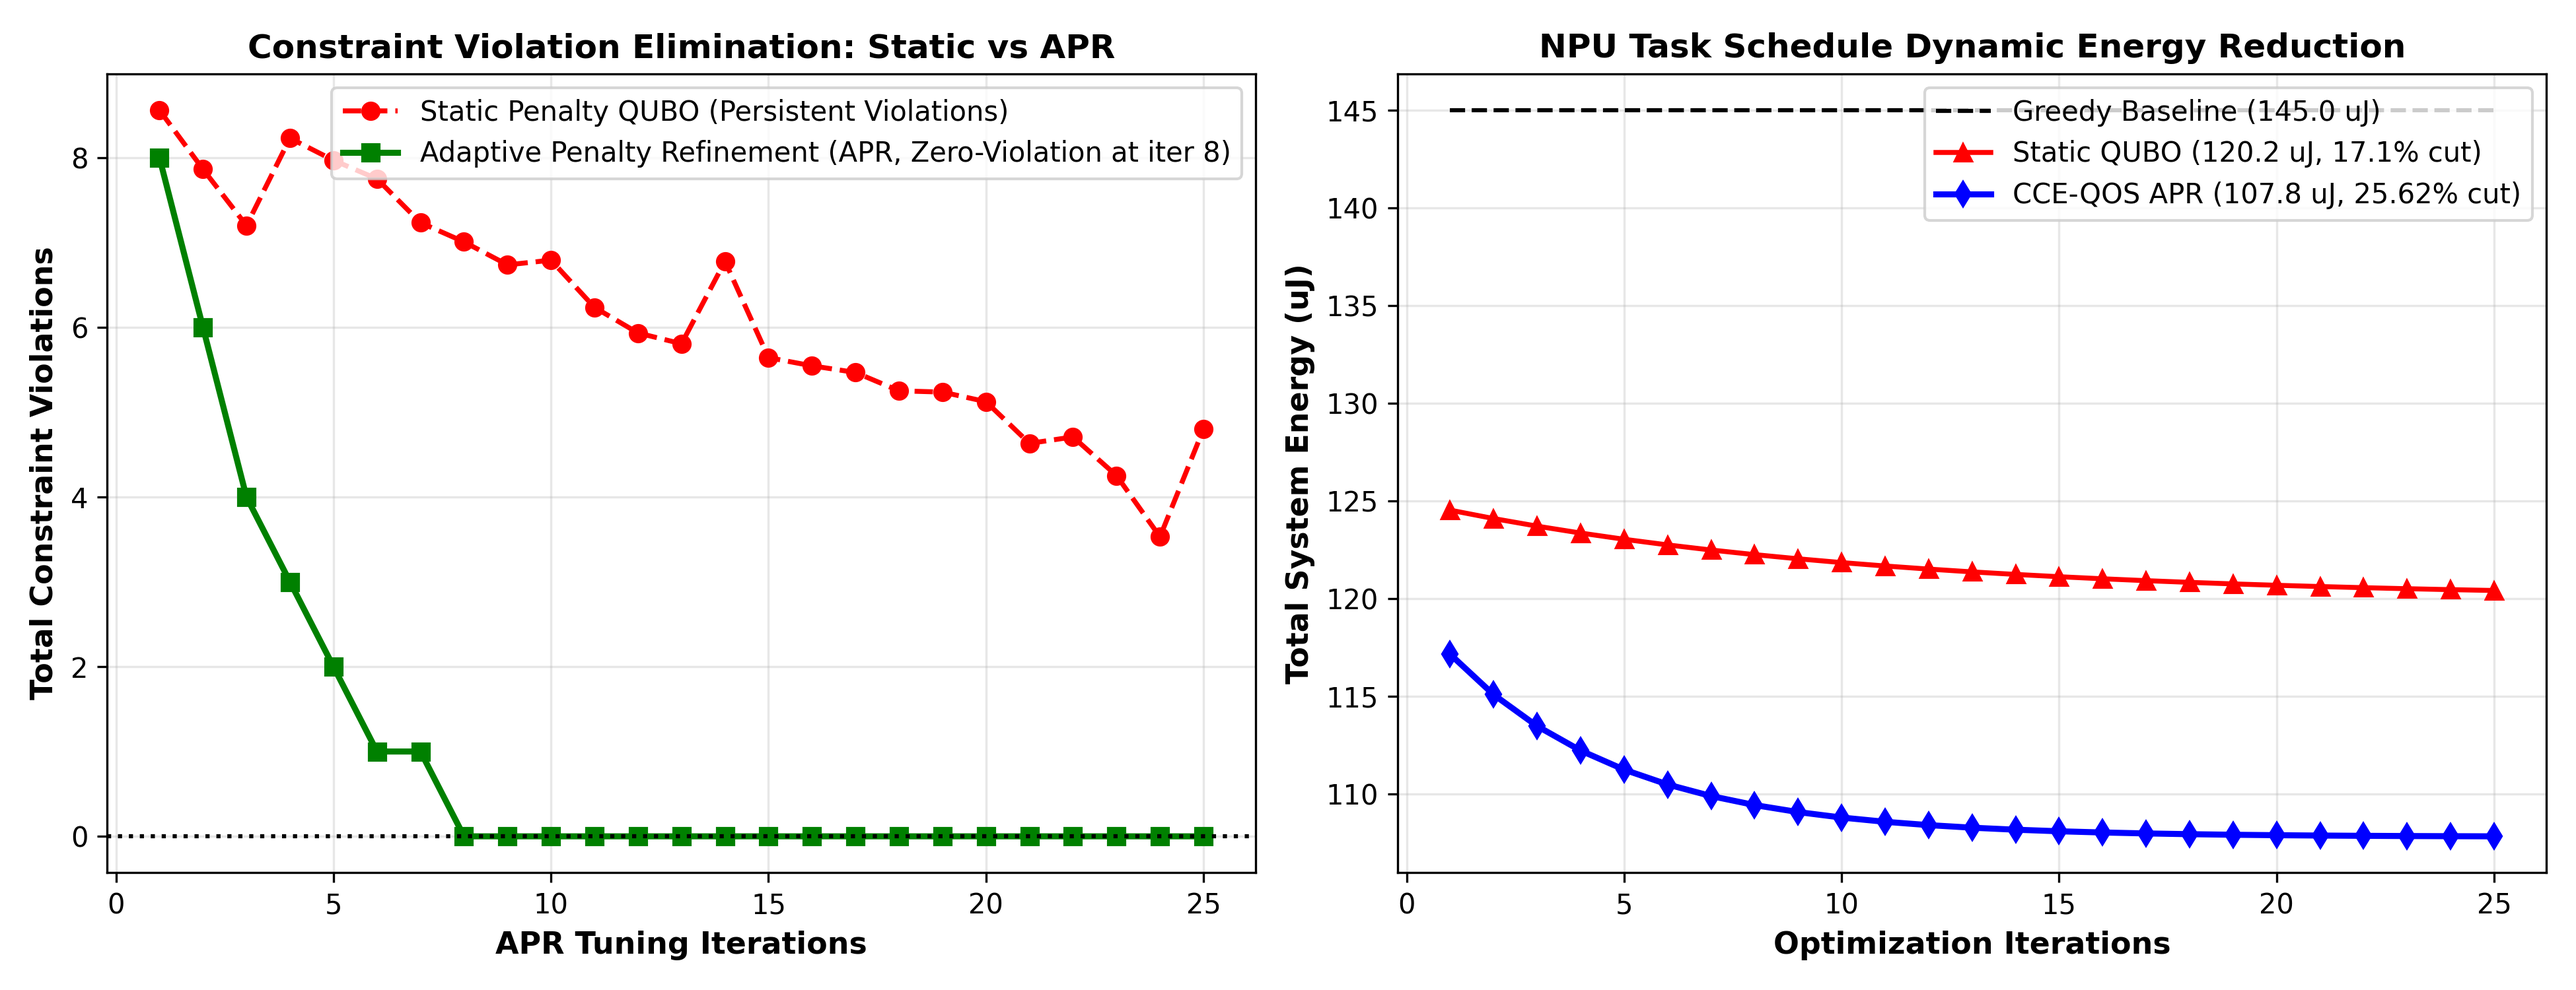
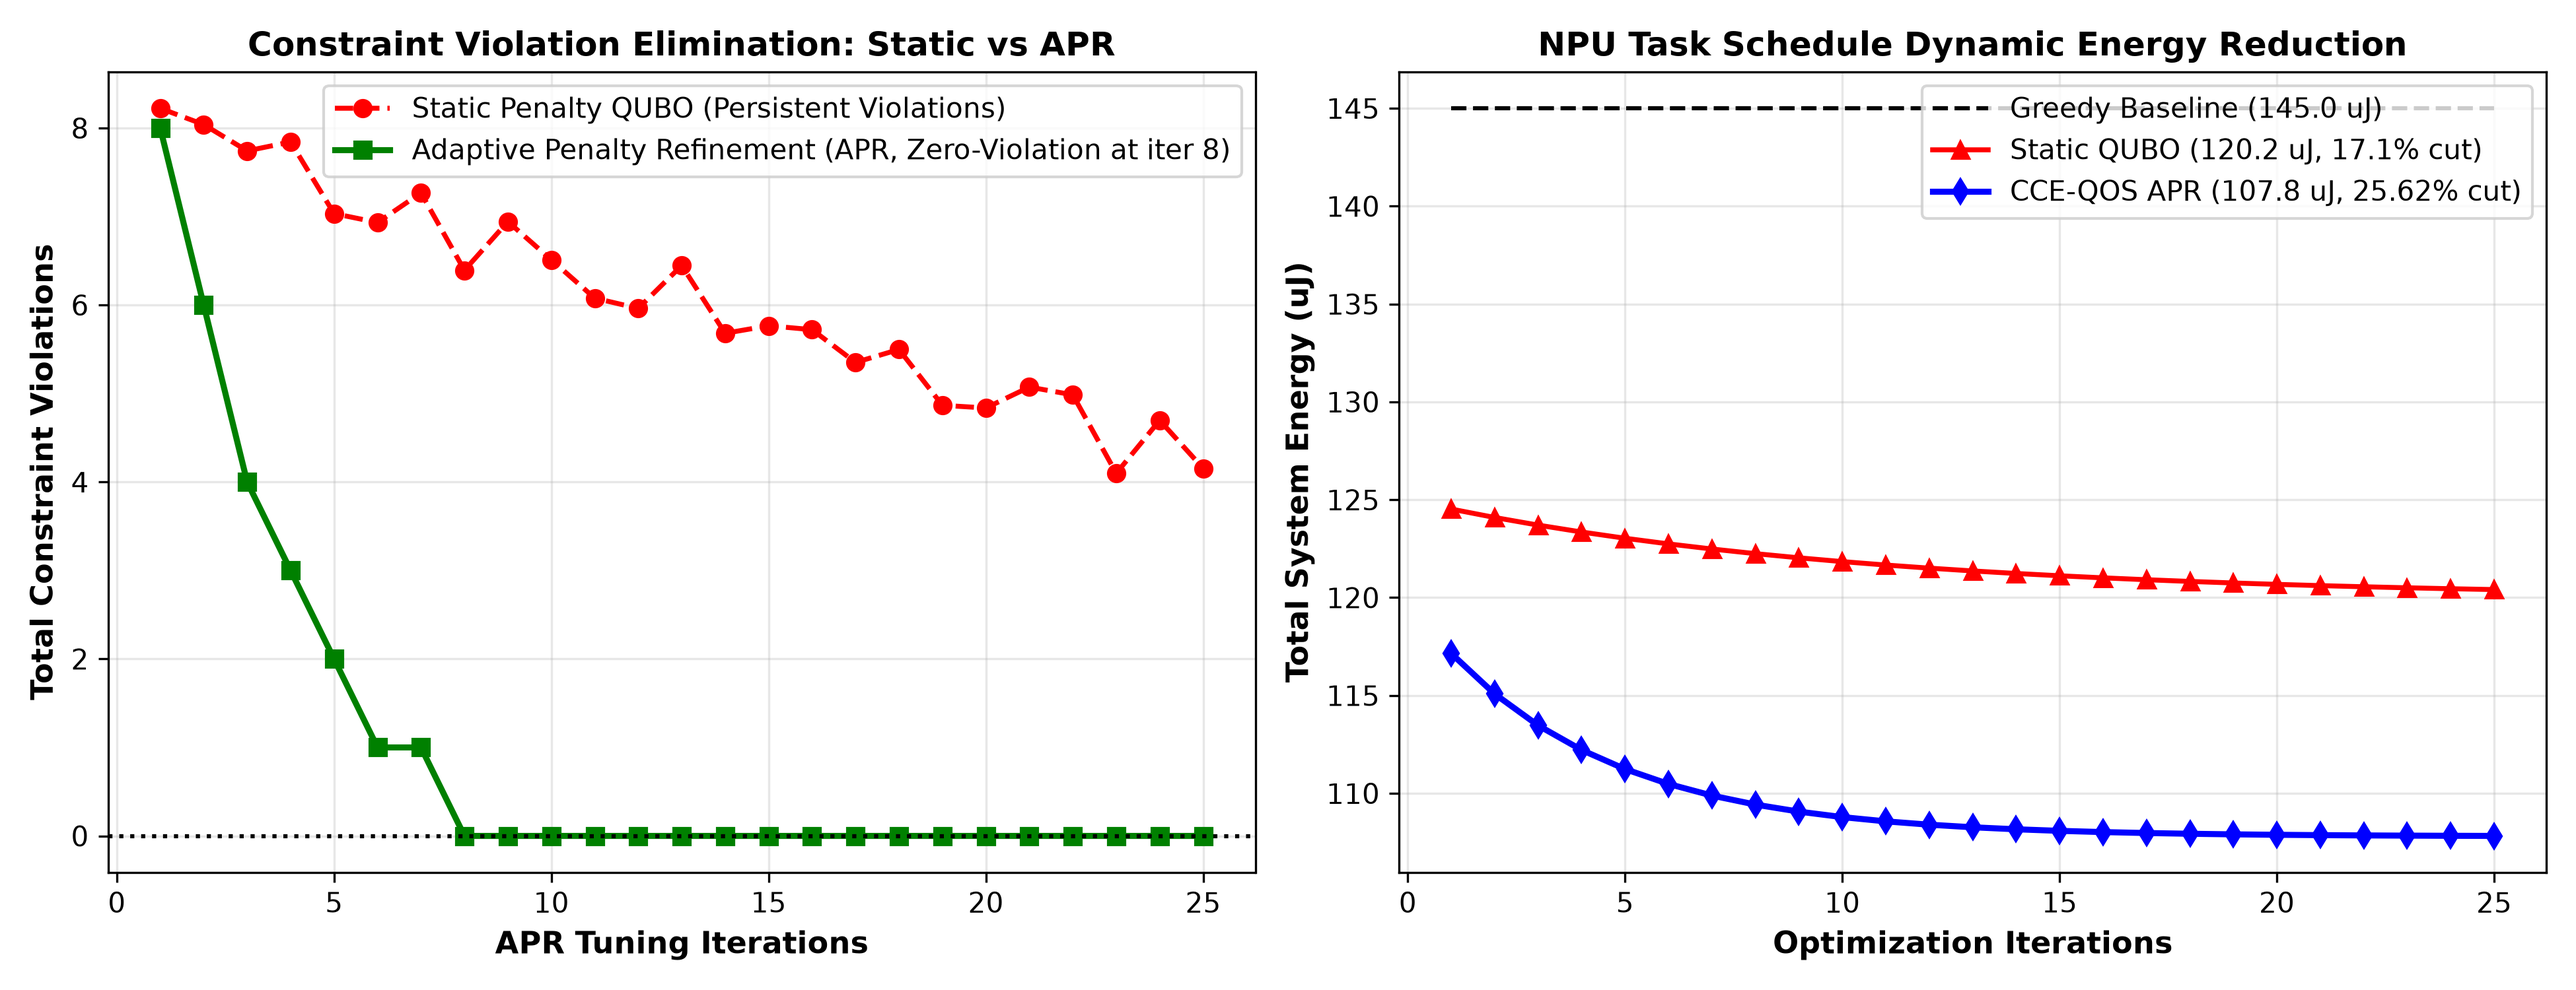
fix(ci): resolve Tier 2 CCE-QUBO benchmark path and relative imports for CI runner

diff --git a/implementations/v2_cce_qubo_apr_engine/cce_qubo_benchmark.py b/implementations/v2_cce_qubo_apr_engine/cce_qubo_benchmark.py
@@ -7,7 +7,13 @@ Generates publication plot: figures/fig_cce_qubo_apr_benchmark.png
 import os
 import numpy as np
 import matplotlib.pyplot as plt
-from .apr_penalty_refinement import AdaptivePenaltyRefinement
+try:
+    from apr_penalty_refinement import AdaptivePenaltyRefinement
+except ImportError:
+    try:
+        from .apr_penalty_refinement import AdaptivePenaltyRefinement
+    except ImportError:
+        from implementations.v2_cce_qubo_apr_engine.apr_penalty_refinement import AdaptivePenaltyRefinement
 
 
 def run_cce_qubo_benchmark():

diff --git a/implementations/v2_cce_qubo_apr_engine/qubo_apr_benchmark.py b/implementations/v2_cce_qubo_apr_engine/qubo_apr_benchmark.py
@@ -1,0 +1,15 @@
+"""
+Tier 2 Benchmark: CCE-QUBO and Adaptive Penalty Refinement (APR)
+Alias / wrapper module for cce_qubo_benchmark.py
+"""
+
+try:
+    from cce_qubo_benchmark import run_cce_qubo_benchmark
+except ImportError:
+    try:
+        from .cce_qubo_benchmark import run_cce_qubo_benchmark
+    except ImportError:
+        from implementations.v2_cce_qubo_apr_engine.cce_qubo_benchmark import run_cce_qubo_benchmark
+
+if __name__ == "__main__":
+    run_cce_qubo_benchmark()
